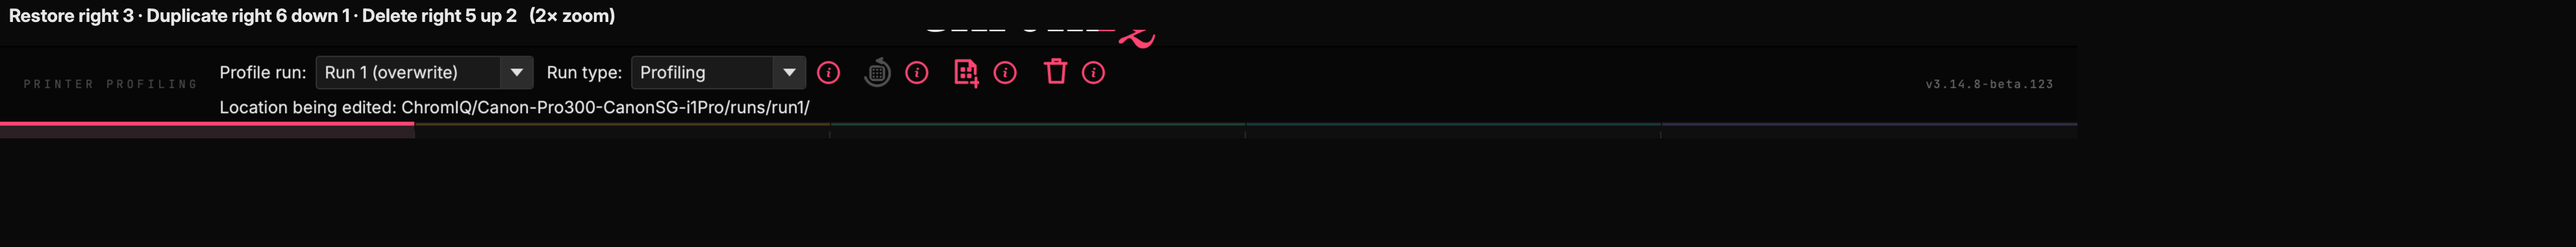
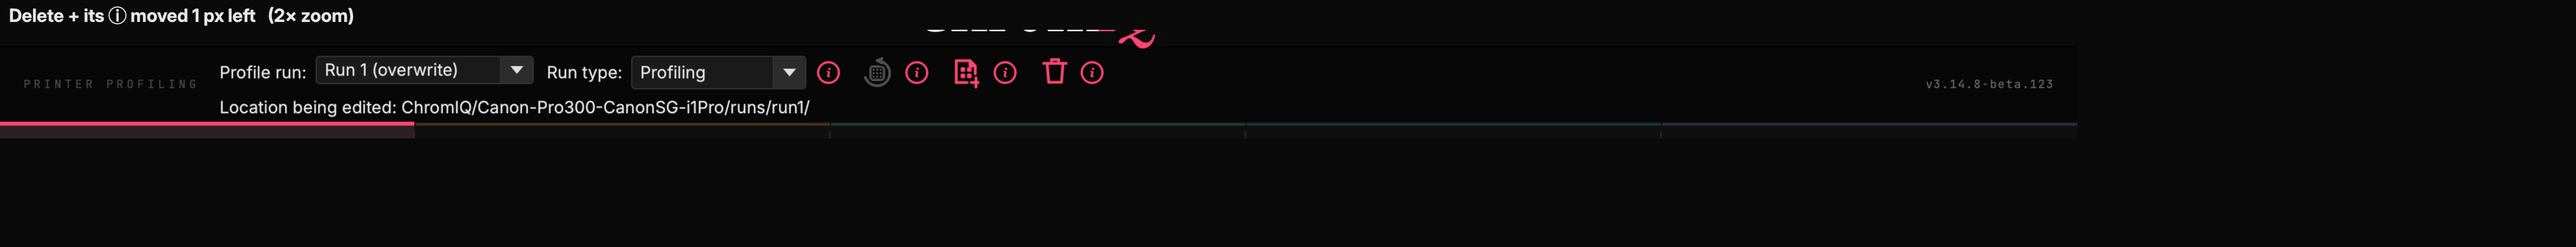
#130: the bin and its ⓘ move one pixel left, together
Only Delete this time — Basti stopped the duplicate half mid-request.

The pair travels, so the ⓘ has to move with the mark and the gap between them
stays as it was. That means nudging an ⓘ after all, which is what clipped last
time. It no longer can: instead of translating inside a fixed pixmap, the
pixmap now GROWS by twice the nudge and the circle is drawn off-centre inside
it. Qt centres the larger icon in the unchanged button, so the shift appears
with nothing lost off the edge.

Every other ⓘ in the app pays nothing for this: no nudge means no growth and
the original pixmap, and the cache key carries the nudge so a plain ⓘ can never
be handed a nudged icon.

    delete mark  right 4, up 2   (was right 5)
    delete ⓘ     left 1

Changed region(s): [[0.0, 0.0288, 0.25, 0.1152], [0.125, 0.2592, 0.2188, 0.3743], [0.4062, 0.2592, 0.4375, 0.3455]]

diff --git a/ui/tooltip_button.py b/ui/tooltip_button.py
@@ -65,6 +65,10 @@ class TooltipButton(QToolButton):
         if color is not None:
             self._color_override = color
 
+        #: An OPTICAL offset for the drawn ⓘ, in device-independent pixels.
+        #: See :meth:`set_nudge` — and note that it grows the pixmap rather than
+        #: shifting inside it, because the circle nearly fills its own box.
+        self._nudge: "tuple[float, float]" = (0.0, 0.0)
         self.setObjectName("tooltip_btn")
         self.setToolTip(title + "\n\n" + tr("Click for details"))
         self.setFixedSize(QSize(_ICON_SIZE + 4, _ICON_SIZE + 4))
@@ -92,6 +96,24 @@ class TooltipButton(QToolButton):
                 and not self._explicitly_disabled):
             super().setEnabled(True)
 
+    def set_nudge(self, dx: float, dy: float) -> None:
+        """Shift the drawn ⓘ inside its button, without moving the button.
+
+        Used where an ⓘ has to travel with the control it explains rather than
+        keep even spacing of its own (#130, Basti 2026-08-03).
+
+        **The first attempt at this translated the painter inside a fixed
+        pixmap, and Basti saw the result at once: the icons looked cut off.**
+        The circle is drawn with a margin of about 7 % of its pixmap — roughly
+        two physical pixels at 2× — so any offset eats its edge. So the pixmap
+        grows by the offset instead and the circle is drawn off-centre inside
+        it: same visual shift, nothing clipped.
+        """
+        if (dx, dy) == self._nudge:
+            return
+        self._nudge = (float(dx), float(dy))
+        self._set_icon()
+
     def set_color(self, color: str) -> None:
         """Override the ⓘ icon colour (e.g. to match a dialog's own accent)."""
         self._color_override = color
@@ -100,26 +122,45 @@ class TooltipButton(QToolButton):
     def _set_icon(self) -> None:
         color = getattr(self, "_color_override", None) or self.__class__.ACCENT
         self.setIcon(self._draw_icon(QColor(color)))
-        self.setIconSize(QSize(_ICON_SIZE, _ICON_SIZE))
+        # The icon is as wide/tall as the nudge made it; Qt centres it in the
+        # button, so the extra room on one side is what produces the shift.
+        gx, gy = self._grow()
+        self.setIconSize(QSize(_ICON_SIZE + gx, _ICON_SIZE + gy))
+
+    def _grow(self) -> "tuple[int, int]":
+        """How much bigger the pixmap has to be to hold a nudged circle."""
+        import math
+        return (2 * math.ceil(abs(self._nudge[0])),
+                2 * math.ceil(abs(self._nudge[1])))
 
     def _draw_icon(self, color: QColor) -> QIcon:
         dpr  = QGuiApplication.primaryScreen().devicePixelRatio()
-        key  = (color.rgba(), round(dpr, 4))
+        # The nudge changes what the pixmap looks like AND how big it is, so it
+        # belongs in the key — otherwise the first ⓘ drawn in a colour hands its
+        # icon to every later one and the offset silently disappears.
+        key  = (color.rgba(), round(dpr, 4), self._nudge)
         cached = TooltipButton._ICON_CACHE.get(key)
         if cached is not None:
             return cached
         phys = round(_ICON_SIZE * dpr)
-        px   = QPixmap(phys, phys)
+        gx, gy = self._grow()
+        w_ph, h_ph = phys + round(gx * dpr), phys + round(gy * dpr)
+        px   = QPixmap(w_ph, h_ph)
         px.fill(Qt.GlobalColor.transparent)
 
         p = QPainter(px)
         p.setRenderHint(QPainter.RenderHint.Antialiasing)
+        # Centre the circle in the grown pixmap, then move it by the nudge. The
+        # growth is twice the nudge, so the circle always lands fully inside.
+        ox = (w_ph - phys) / 2 + self._nudge[0] * dpr
+        oy = (h_ph - phys) / 2 + self._nudge[1] * dpr
 
         pen = QPen(color, max(1.0, phys * 0.10))
         p.setPen(pen)
         p.setBrush(Qt.BrushStyle.NoBrush)
         margin = int(phys * 0.07)
-        p.drawEllipse(margin, margin, phys - 2 * margin, phys - 2 * margin)
+        p.drawEllipse(int(ox) + margin, int(oy) + margin,
+                      phys - 2 * margin, phys - 2 * margin)
 
         # Italic "i" glyph
         font = QFont()
@@ -130,7 +171,7 @@ class TooltipButton(QToolButton):
         p.setFont(font)
         p.setPen(color)
         p.drawText(
-            QRect(0, 0, phys, int(phys * 1.05)),
+            QRect(int(ox), int(oy), phys, int(phys * 1.05)),
             int(Qt.AlignmentFlag.AlignHCenter | Qt.AlignmentFlag.AlignVCenter),
             "i",
         )

diff --git a/tests/test_bar_sits_on_the_masthead_rail.py b/tests/test_bar_sits_on_the_masthead_rail.py
@@ -95,7 +95,7 @@ def test_duplicate_and_delete_carry_the_values_basti_chose():
     from ui.bar_icons import delete_button, duplicate_run_button
     from ui.styles import SPEC_MAGENTA
     assert duplicate_run_button(SPEC_MAGENTA, "d").NUDGE == (6.0, 1.0)
-    assert delete_button(SPEC_MAGENTA, "x").NUDGE == (5.0, -2.0)
+    assert delete_button(SPEC_MAGENTA, "x").NUDGE == (4.0, -2.0)
 
 
 def test_restore_moves_right_but_not_vertically():
@@ -118,10 +118,42 @@ def test_the_nudge_moves_the_mark_and_not_the_button(qapp):
         assert btn.size().height() == BarIconButton.HEIGHT
 
 
-def test_the_tooltip_icons_are_not_nudged(qapp):
-    """Tried and reverted (#130, Basti 2026-08-03): *"the tooltip icons now
-    looked cut off"*. The ⓘ circle nearly fills its own pixmap — about 7 % of
-    margin — so a 2 px shift clipped its edge. The same gap is closed from the
-    mark's side instead, where the glyph has room to move."""
+def test_an_unnudged_tooltip_icon_keeps_its_plain_size(qapp):
+    """Every other ⓘ in the app is untouched, and pays nothing for the
+    mechanism: no nudge means no growth and the original pixmap."""
     from ui.tooltip_button import TooltipButton
-    assert not hasattr(TooltipButton("t", "b"), "_nudge")
+    t = TooltipButton("t", "b")
+    assert t._nudge == (0.0, 0.0)
+    assert t._grow() == (0, 0)
+
+
+def test_a_nudged_tooltip_icon_grows_instead_of_clipping(qapp):
+    """#130, Basti 2026-08-03: *"the tooltip icons now looked cut off"*.
+
+    The first attempt translated the painter inside a fixed pixmap. The circle
+    is drawn with a margin of about 7 % — roughly two physical pixels at 2× —
+    so the shift ate its edge. The pixmap now GROWS by twice the nudge and the
+    circle is drawn off-centre inside it, so the same visual shift costs
+    nothing."""
+    from ui.tooltip_button import TooltipButton
+    t = TooltipButton("t", "b")
+    t.set_nudge(-1.0, 0.0)
+    assert t._grow() == (2, 0), "twice the nudge, so the circle always fits"
+    assert t.iconSize().width() > t.iconSize().height(), \
+        "the extra room is on the axis that moved"
+
+
+def test_only_the_delete_tip_is_nudged(qapp, tmp_path):
+    """Basti asked for the bin AND its ⓘ to move together, and for nothing
+    else to move with them."""
+    from PyQt6.QtCore import QSettings
+    from core.file_manager import FileManager
+    from core.settings import AppSettings
+    from ui.measurement_target_bar import (MeasurementTargetBar,
+                                           MeasurementTargetController)
+    s = AppSettings()
+    s._qs = QSettings(str(tmp_path / "s.ini"), QSettings.Format.IniFormat)
+    bar = MeasurementTargetBar(MeasurementTargetController(FileManager(s)))
+    assert bar._delete_tip._nudge == (-1.0, 0.0)
+    assert bar._restore_tip._nudge == (0.0, 0.0)
+    assert bar._duplicate_tip._nudge == (0.0, 0.0)

diff --git a/ui/bar_icons.py b/ui/bar_icons.py
@@ -371,8 +371,9 @@ class _DuplicateButton(BarIconButton):
 class _DeleteButton(BarIconButton):
     #: Right 3, up 2 (#130, Basti 2026-08-03, in two passes: right 1 / up 2, then
     #: a further right 2). The lid is a solid horizontal stroke across the top,
-    #: which makes the bin read as sitting low.
-    NUDGE = (5.0, -2.0)
+    #: which makes the bin read as sitting low. Right 4 after the fourth pass,
+    #: where Basti moved the bin and its ⓘ one pixel left together.
+    NUDGE = (4.0, -2.0)
 
 
 def duplicate_run_button(colour: str, text: str,

diff --git a/ui/measurement_target_bar.py b/ui/measurement_target_bar.py
@@ -838,6 +838,11 @@ class MeasurementTargetBar(QWidget):
                                      QSizePolicy.Policy.Preferred)
         column.addWidget(self._location)
 
+        # Delete and its ⓘ move one pixel left together (#130, Basti
+        # 2026-08-03) — the pair travels, so the gap between them is unchanged.
+        # The mark carries its own half of it in _DeleteButton.NUDGE.
+        self._delete_tip.set_nudge(-1.0, 0.0)
+
         self._ctl.changed.connect(self._sync_from_controller)
         self.refresh()
 
